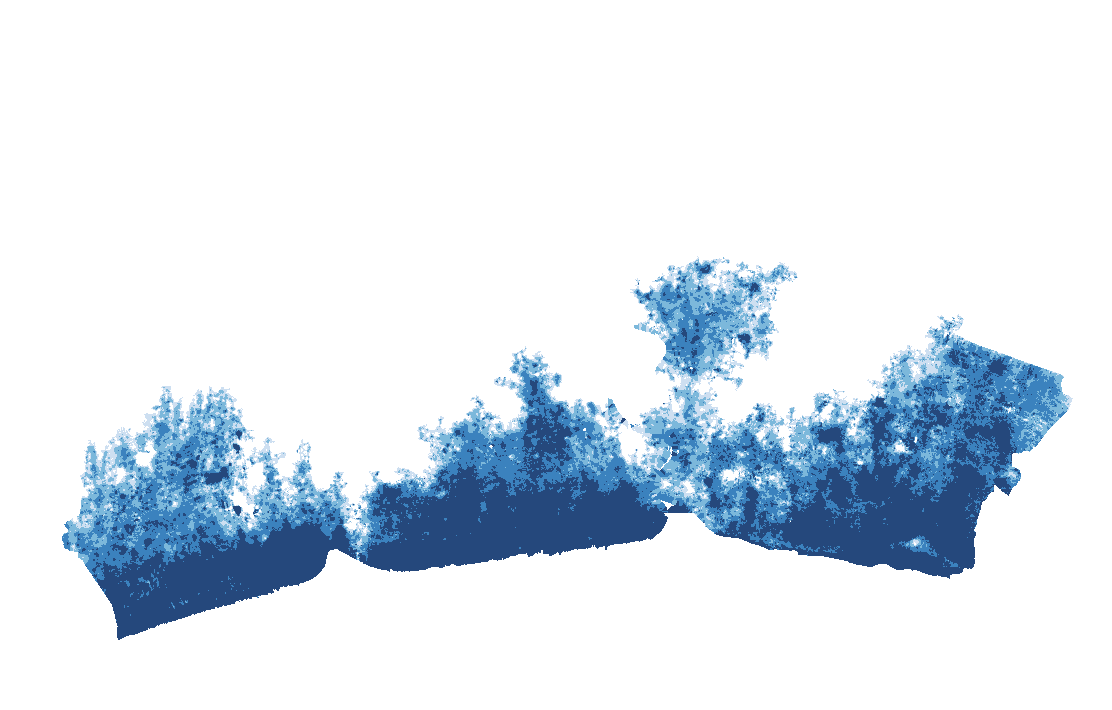
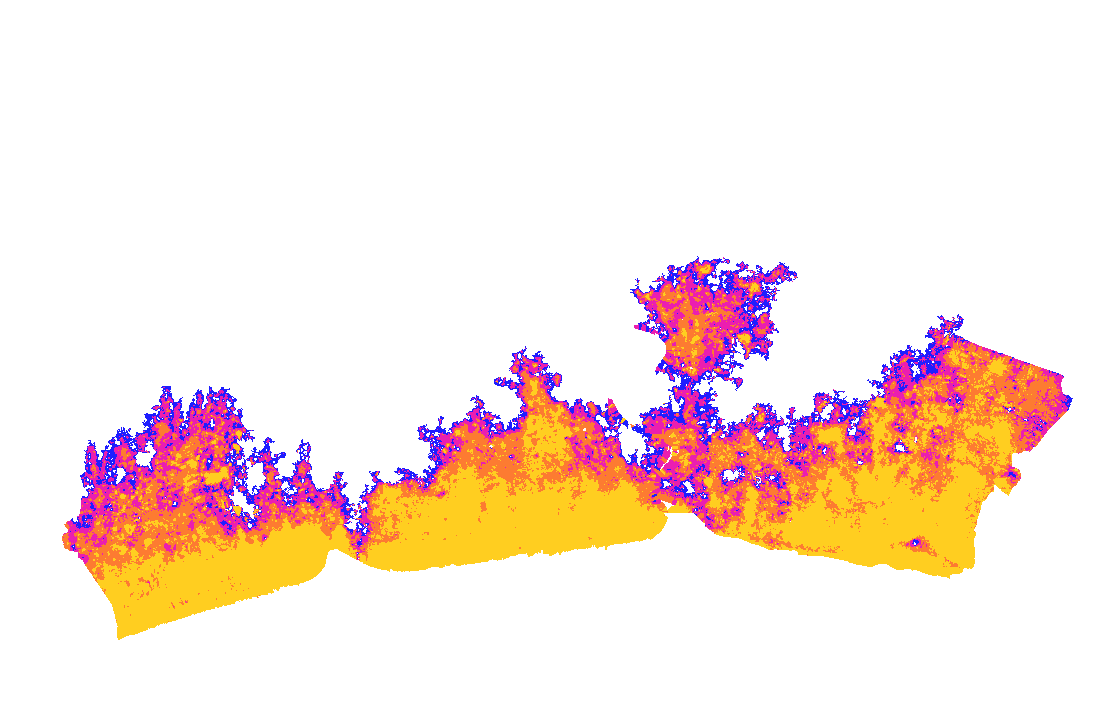
Site: new colour templates for sinking rate, risk and sea flooding

Changed region(s): [[0.0306, 0.3408, 0.9784, 0.8986]]

diff --git a/index.html b/index.html
@@ -561,7 +561,7 @@ const ABOUT = {
     <li>กราฟรายเดือนมีสัญญาณตามฤดูกาลและสัญญาณรบกวนจากชั้นบรรยากาศ ให้ดูแนวโน้มมากกว่าค่าแต่ละเดือน</li>
     <li>ไม่พบหลักฐานชัดเจนว่าแผ่นดินไหว 28 มี.ค. 2568 ทำให้อัตราการทรุดเปลี่ยนไป</li>
     <li>การเทียบกับขั้นบันไดใช้ความสูงขั้นละ 15 ซม. และสมมติว่าอัตราการทรุดคงที่</li>
-    <li><b>ทางตะวันออกอาจแดงเกินจริง</b>: เทียบกับ GNSS ที่ สจล. ลาดกระบัง (KMIT) ช่วง 2567–2569 InSAR ให้ทรุดมากกว่า GNSS ราว 3–6 มม. ต่อปี และสองวงโคจรให้ค่าต่างกันเป็นแนวลาดจากตะวันตกไปตะวันออก (ดูไฟล์วิธีทำด้านล่าง) ค่า ± ในการ์ดรวมความต่างนี้แล้ว จุดที่ไม่แน่นอนเกิน 5 มม. ต่อปีแสดงเป็นสีจาง</li></ul>
+    <li><b>ทางตะวันออกอาจแสดงการทรุดมากเกินจริง</b>: เทียบกับ GNSS ที่ สจล. ลาดกระบัง (KMIT) ช่วง 2567–2569 InSAR ให้ทรุดมากกว่า GNSS ราว 3–6 มม. ต่อปี และสองวงโคจรให้ค่าต่างกันเป็นแนวลาดจากตะวันตกไปตะวันออก (ดูไฟล์วิธีทำด้านล่าง) ค่า ± ในการ์ดรวมความต่างนี้แล้ว จุดที่ไม่แน่นอนเกิน 5 มม. ต่อปีแสดงเป็นสีจาง</li></ul>
     <h4>ดาวน์โหลดข้อมูล (GeoTIFF, UTM 47N)</h4>
     ${dl('th')}
     <h4>แหล่งข้อมูล</h4>
@@ -599,7 +599,7 @@ const ABOUT = {
     <li>Monthly chart values include seasonal and atmospheric noise; read the trend rather than single months.</li>
     <li>We found no clear evidence that the 28 March 2025 earthquake changed subsidence rates.</li>
     <li>The stair-step comparison uses a 15 cm step and assumes the rate stays the same.</li>
-    <li><b>The east may look redder than it is</b>: compared with the GNSS station at KMITL Lat Krabang (KMIT) for 2024–2026, InSAR shows 3–6 mm a year more sinking, and the two orbits disagree along a west-to-east slope (see the method file below). The ± in the card includes this disagreement; spots more uncertain than 5 mm a year are drawn faded.</li></ul>
+    <li><b>The east may show more sinking than it has</b>: compared with the GNSS station at KMITL Lat Krabang (KMIT) for 2024–2026, InSAR shows 3–6 mm a year more sinking, and the two orbits disagree along a west-to-east slope (see the method file below). The ± in the card includes this disagreement; spots more uncertain than 5 mm a year are drawn faded.</li></ul>
     <h4>Download the data (GeoTIFF, UTM 47N)</h4>
     ${dl('en')}
     <h4>Sources</h4>
@@ -760,7 +760,7 @@ async function showGroup(i, fit = true) {
 }
 
 const $ = id => document.getElementById(id);
-const RISK_COLORS = ['#fef0d9', '#fdcc8a', '#fc8d59', '#e34a33', '#b30000'];
+const RISK_COLORS = ['#fce594', '#e4d87a', '#f58cb8', '#e90003', '#99101b'];
 const STEP_CM = 15;
 
 function classOf(v) {
